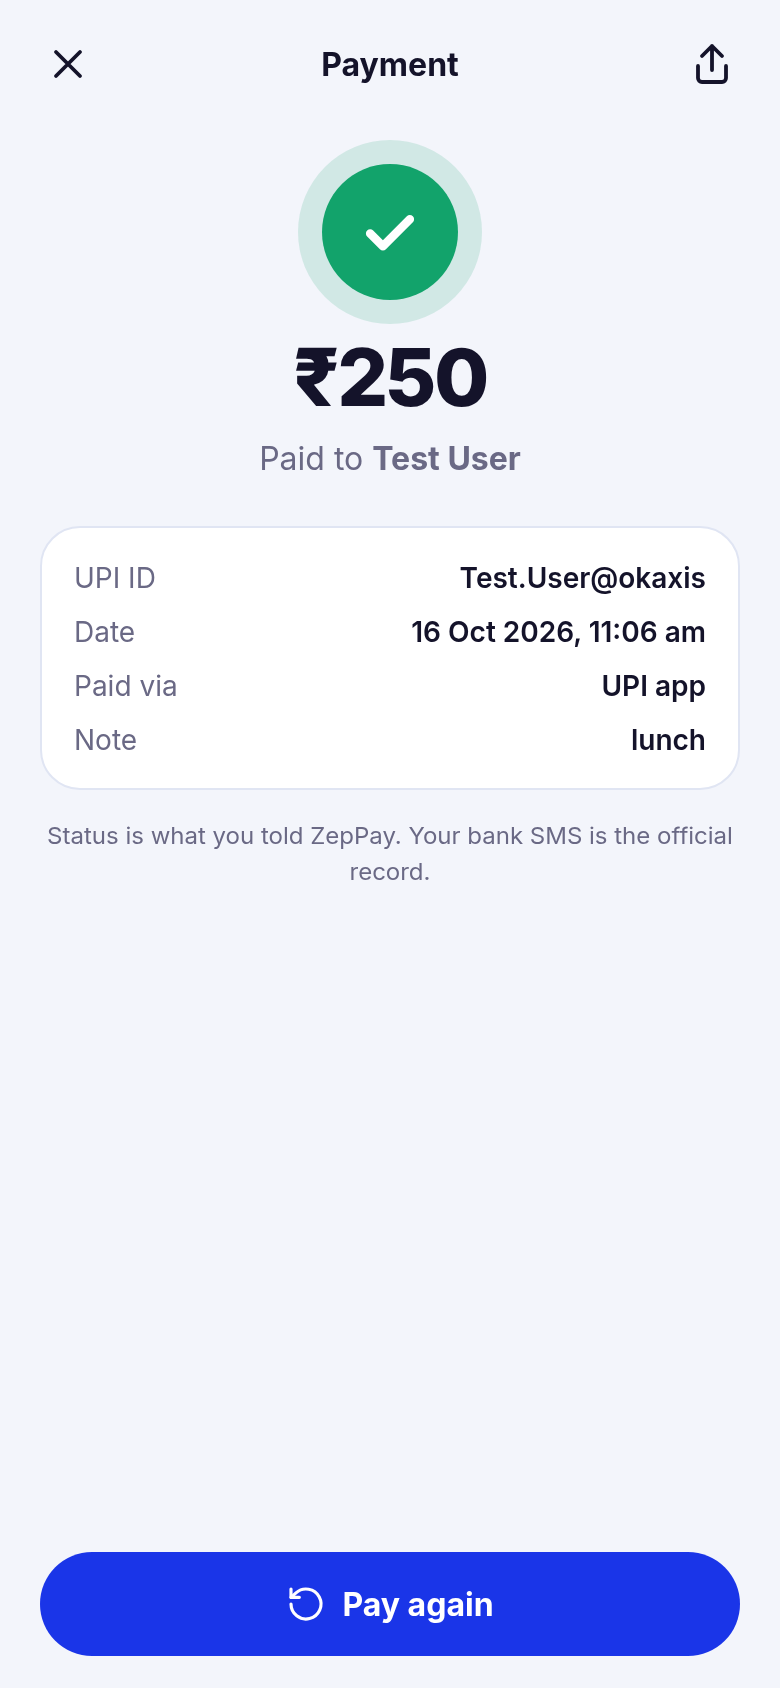
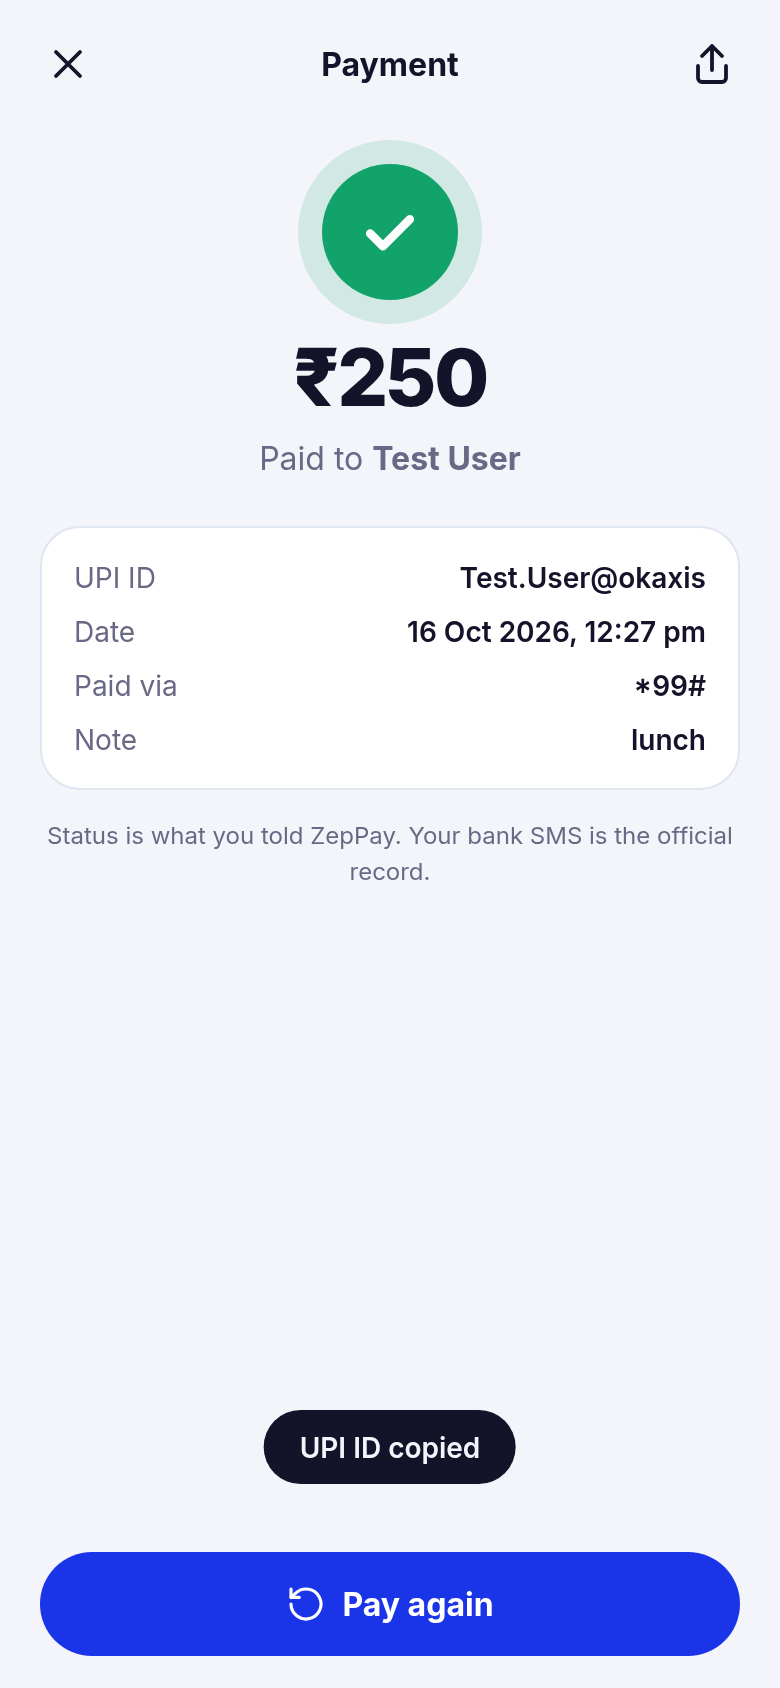
Payments only over *99#: remove UPI app deep-link route

Changed region(s): [[0.3385, 0.8318, 0.6769, 0.8934], [0.5231, 0.3697, 0.8923, 0.4313]]

diff --git a/src/App.jsx b/src/App.jsx
@@ -4,7 +4,7 @@ import * as Ic from './Icons.jsx';
 import logo from './assets/logo.png';
 import { usePersisted } from './store.js';
 import {
-  parseUpi, validateAmount, formatINR, telHref, CARRIERS, carrierSupported, newId, upiLink, initials,
+  parseUpi, validateAmount, formatINR, telHref, CARRIERS, carrierSupported, newId, initials,
   groupByDay, navigate, isValidVpa, isValidMobile, normMobile, USSD_SEND, USSD_MOBILE, USSD_BALANCE, USSD_MENU, MAX_AMOUNT,
 } from './lib.js';
 
@@ -65,7 +65,7 @@ export default function App() {
     return () => removeEventListener('beforeinstallprompt', h);
   }, []);
 
-  // When the user comes back from the dialer / UPI app, ask how it went.
+  // When the user comes back from the dialer, ask how it went.
   useEffect(() => {
     const onVis = () => { if (document.visibilityState === 'visible' && pending) setScreen((s) => (s?.name === 'outcome' ? s : { name: 'outcome', tx: pending })); };
     document.addEventListener('visibilitychange', onVis);
@@ -125,8 +125,8 @@ function Onboarding({ onDone }) {
   const [i, setI] = useState(0);
   const slides = [
     { icon: <Ic.WifiOff width={44} height={44} />, t: 'Pay with no internet', d: 'ZepPay lines up UPI payments over *99#, the service built into your SIM. No Wi-Fi, no mobile data.' },
-    { icon: <Ic.Scan width={44} height={44} />, t: 'Scan, check, pay', d: 'Scan any UPI QR or enter a UPI ID or mobile number. Pay offline through *99#, or open your UPI app when you have data.' },
-    { icon: <Ic.Shield width={44} height={44} />, t: 'Your PIN stays with your bank', d: 'ZepPay never sees or stores your UPI PIN. You enter it in the dialer or your UPI app. History stays on this device.' },
+    { icon: <Ic.Scan width={44} height={44} />, t: 'Scan, check, pay', d: 'Scan any UPI QR or enter a UPI ID or mobile number. ZepPay lines up the payment and your bank completes it over *99#.' },
+    { icon: <Ic.Shield width={44} height={44} />, t: 'Your PIN stays with your bank', d: 'ZepPay never sees or stores your UPI PIN. You enter it in the dialer. History stays on this device.' },
     { icon: <Ic.Wallet width={44} height={44} />, t: 'One-time bank link', d: 'To pay over *99#, your SIM must be linked to your bank once.', steps: true },
   ];
   const s = slides[i], last = i === slides.length - 1;
@@ -175,7 +175,7 @@ function HomeTab({ supported, carrier, history, go, online, installEvt, onInstal
         <span className="netic"><Ic.WifiOff width={22} height={22} /></span>
         <div><b>Works with no data</b><small>Offline payments use *99# on your {CARRIERS.find((c) => c.id === carrier)?.name} SIM. Your bank completes them.</small></div>
       </section>
-      {!supported && <div className="warn" role="alert"><Ic.Info width={20} height={20} /><div><b>Jio doesn't support *99#.</b> You can still pay with your UPI app when you have internet.</div></div>}
+      {!supported && <div className="warn" role="alert"><Ic.Info width={20} height={20} /><div><b>Jio doesn't support *99#.</b> Payments in ZepPay need a *99# supported SIM.</div></div>}
 
       {recents.length > 0 && <>
         <h3 className="sec">Pay again</h3>
@@ -220,7 +220,7 @@ function PayTo({ kind: initial, onClose, onNext }) {
         <input className="field" autoFocus aria-label={kind === 'upi' ? 'UPI ID' : 'Mobile number'} placeholder={kind === 'upi' ? 'name@bank' : '10-digit mobile number'} inputMode={kind === 'upi' ? 'email' : 'numeric'} value={val} onChange={(e) => setVal(e.target.value)} autoCapitalize="off" autoCorrect="off" spellCheck="false" />
         {val && !ok && <p className="err">{kind === 'upi' ? 'Use the format name@bank.' : 'Enter a valid 10-digit Indian mobile number.'}</p>}
         <input className="field" aria-label="Payee name (optional)" placeholder="Name (optional, for your history)" maxLength={40} value={name} onChange={(e) => setName(e.target.value)} />
-        {kind === 'mobile' && <p className="fine left">Mobile payments go through *99# only. The number must be linked to a UPI account. UPI apps need a UPI ID or QR.</p>}
+        {kind === 'mobile' && <p className="fine left">Mobile payments go through *99# only. The number must be linked to a UPI account.</p>}
         <button className="btn primary wide" disabled={!ok} style={{ marginTop: 12 }}>Continue <Ic.Arrow width={20} height={20} /></button>
       </form>
     </div>
@@ -327,44 +327,38 @@ function PayScreen({ payee, supported, onClose, onGo }) {
         <div className="quick">{[100, 500, 1000, 2000].map((v) => <button key={v} onClick={() => setAmount(String(v))}>₹{v.toLocaleString('en-IN')}</button>)}</div>
         {!isMobile && <input className="field" aria-label="Note" placeholder="Add a note (optional)" maxLength={50} value={note} onChange={(e) => setNote(e.target.value)} />}
         <label className="check"><input type="checkbox" checked={confirmed} onChange={(e) => setConfirmed(e.target.checked)} /><span>I've checked this is the right person to pay.</span></label>
-        <p className="fine left">Your bank completes the payment and asks for your UPI PIN. ZepPay never sees it.</p>
+        <p className="fine left">Payments run only over *99#. Your bank asks for your UPI PIN in the dialer. ZepPay never sees it.</p>
       </div>
       <div className="sheet-foot col">
-        {!isMobile && <button className="btn primary wide" disabled={dis} onClick={() => start('app')}>Pay with UPI app {!err && amount ? formatINR(amount) : ''} <Ic.Arrow width={20} height={20} /></button>}
-        <button className={'btn wide ' + (isMobile ? 'primary' : 'ghost')} disabled={dis || !supported} onClick={() => start('ussd')}><Ic.WifiOff width={20} height={20} /> Pay offline with *99#</button>
+        <button className="btn primary wide" disabled={dis || !supported} onClick={() => start('ussd')}><Ic.WifiOff width={20} height={20} /> Pay {!err && amount ? formatINR(amount) : ''} with *99#</button>
         {!supported && <p className="err center">Jio SIMs can't use *99#.</p>}
       </div>
     </div>
   );
 }
 
-/* ---------- Handoff to UPI app / dialer ---------- */
+/* ---------- Handoff to dialer ---------- */
 function Handoff({ tx, route, showToast, onClose, onBack, onLaunch, onPick }) {
-  const isApp = route === 'app';
+  const isApp = false;
   const code = tx.vpa ? USSD_SEND : USSD_MOBILE;
   const target = tx.vpa || tx.mobile;
   const open = async () => {
     onLaunch();
-    if (isApp) { navigate(upiLink({ vpa: tx.vpa, name: tx.name, amount: tx.amount, note: tx.note })); return; }
+    if (isApp) { return; }
     if (await copyText(target)) showToast(tx.vpa ? 'UPI ID copied' : 'Number copied');
     navigate(telHref(code));
   };
   return (
     <div className="sheet session" role="dialog" aria-label="Complete payment">
-      <header className="sheet-top"><button className="icon-btn" onClick={onBack} aria-label="Back"><Ic.Back /></button><b>{isApp ? 'UPI app' : 'Offline *99#'}</b><span style={{ width: 40 }} /></header>
+      <header className="sheet-top"><button className="icon-btn" onClick={onBack} aria-label="Back"><Ic.Back /></button><b>Pay via *99#</b><span style={{ width: 40 }} /></header>
       <div className="sheet-body center">
         <div className="amt-show"><small>to {tx.name || target}</small><div>{formatINR(tx.amount)}</div></div>
         <div className="livebox"><Ic.Phone width={34} height={34} />
-          {isApp ? <>
-            <h2>Finish in your UPI app</h2>
-            <p>Tap below. Your phone lists the UPI apps you have (GPay, PhonePe, Paytm and so on) with the payee and amount filled in. Confirm and enter your PIN there. Needs internet.</p>
-          </> : <>
             <h2>Finish in your dialer</h2>
             <p>ZepPay copies {tx.vpa ? 'the UPI ID' : 'the number'} and opens <code>{code}</code>. In the bank prompts, paste it, enter <b>{formatINR(tx.amount)}</b>, then your UPI PIN. No internet needed.</p>
-          </>}
         </div>
-        <button className="btn primary wide" onClick={open} data-testid="open-handoff"><Ic.Phone width={20} height={20} /> {isApp ? 'Open UPI app' : 'Open dialer'}</button>
-        {!isApp && <button className="btn ghost wide" onClick={async () => showToast((await copyText(target)) ? 'Copied' : 'Copy not available')}><Ic.Copy width={20} height={20} /> Copy {target}</button>}
+        <button className="btn primary wide" onClick={open} data-testid="open-handoff"><Ic.Phone width={20} height={20} /> Open dialer</button>
+        {<button className="btn ghost wide" onClick={async () => showToast((await copyText(target)) ? 'Copied' : 'Copy not available')}><Ic.Copy width={20} height={20} /> Copy {target}</button>}
         <p className="fine">When you come back, ZepPay asks if it worked so your history is accurate. Your bank sends the real confirmation.</p>
       </div>
       <div className="sheet-foot col"><button className="btn ghost wide" data-testid="mark-success" onClick={() => onPick('success')}>It worked</button>
@@ -379,7 +373,7 @@ function Outcome({ tx, onPick, onLater }) {
       <header className="sheet-top"><span style={{ width: 40 }} /><b>Did it go through?</b><button className="icon-btn" onClick={onLater} aria-label="Later"><Ic.Close /></button></header>
       <div className="sheet-body center">
         <div className="amt-show"><small>{formatINR(tx.amount)} to</small><div style={{ fontSize: 26 }}>{tx.name || tx.vpa || tx.mobile}</div></div>
-        <p className="fine">ZepPay can't read your bank's reply. Check your bank SMS or UPI app, then tell us so your history is right.</p>
+        <p className="fine">ZepPay can't read your bank's reply. Check your bank SMS, then tell us so your history is right.</p>
       </div>
       <div className="sheet-foot col">
         <button className="btn primary wide" onClick={() => onPick('success')}>Yes, payment went through</button>
@@ -422,7 +416,7 @@ function Receipt({ tx, onClose, onAgain }) {
           <div className="bal-big">{formatINR(tx.amount)}</div><p>{ok ? 'Paid to' : tx.status === 'failed' ? 'Failed to pay' : 'Not confirmed, to'} <b>{tx.name || tx.vpa || tx.mobile}</b></p></div>
         <dl className="kv">
           <dt>{tx.vpa ? 'UPI ID' : 'Mobile'}</dt><dd>{tx.vpa || tx.mobile}</dd><dt>Date</dt><dd>{when}</dd>
-          <dt>Paid via</dt><dd>{tx.route === 'app' ? 'UPI app' : 'Offline *99#'}</dd>
+          <dt>Paid via</dt><dd>*99#</dd>
           {tx.note && <><dt>Note</dt><dd>{tx.note}</dd></>}
         </dl>
         <p className="fine">Status is what you told ZepPay. Your bank SMS is the official record.</p>
@@ -444,7 +438,7 @@ function HistoryTab({ history, go }) {
             <ul className="list">{g.items.map((t) => (
               <li key={t.id}><button onClick={() => go({ name: 'receipt', tx: t })} className="tx">
                 <Avatar name={label(t)} />
-                <span className="tx-m"><b>{t.name || label(t).split('@')[0]}</b><small>{new Date(t.at).toLocaleTimeString('en-IN', { hour: 'numeric', minute: '2-digit' })} · {t.route === 'app' ? 'UPI app' : '*99#'}</small></span>
+                <span className="tx-m"><b>{t.name || label(t).split('@')[0]}</b><small>{new Date(t.at).toLocaleTimeString('en-IN', { hour: 'numeric', minute: '2-digit' })} · *99#</small></span>
                 <span className={'tx-a ' + t.status}>{formatINR(t.amount)}<small>{statusText(t.status)}</small></span>
               </button></li>))}</ul></section>))}
     </main>
@@ -465,11 +459,11 @@ function BankGuide({ onClose }) {
   );
 }
 const FAQ = [
-  ['Does ZepPay move money itself?', 'No. ZepPay lines up the payment. Your bank completes it, either through *99# on your SIM or in your UPI app. ZepPay never sees your UPI PIN.'],
-  ['Which SIMs work?', 'Airtel, Vi and BSNL support *99#. Jio does not. With a Jio SIM, use "Pay with UPI app" when you have internet.'],
-  ['What are the limits?', '*99# allows ₹1 to ₹5,000 per payment, and a daily cap set by your bank. UPI apps have their own limits.'],
-  ['Why does it ask if my payment worked?', 'A web app cannot read the bank reply from the dialer or UPI app. You tell ZepPay, and it saves that to your history on this device.'],
-  ['Can I pay a mobile number?', 'Yes, over *99# only (it uses the "send to mobile number" option). The number must have a UPI account.'],
+  ['Does ZepPay move money itself?', 'No. ZepPay lines up the payment. Your bank completes it, through *99# on your SIM. ZepPay never sees your UPI PIN.'],
+  ['Which SIMs work?', 'Airtel, Vi and BSNL support *99#. Jio does not, so ZepPay cannot pay on a Jio SIM.'],
+  ['What are the limits?', '*99# allows ₹1 to ₹5,000 per payment, and a daily cap set by your bank. '],
+  ['Why does it ask if my payment worked?', 'A web app cannot read the bank reply from the dialer. You tell ZepPay, and it saves that to your history on this device.'],
+  ['Can I pay a mobile number?', 'Yes, it uses the *99# "send to mobile number" option. The number must have a UPI account.'],
   ['Does it work without internet?', 'Yes. After the first load the app opens offline. Offline payments run through your SIM and need voice signal, not data.'],
   ['Where is my data?', 'Only on this device. No accounts, no analytics, no servers. Clearing site data erases your history.'],
 ];
@@ -482,7 +476,7 @@ function HelpTab({ go }) {
       <ol className="steps">
         <li><span><b>Link your bank once.</b> Dial <code>{USSD_MENU}</code> and follow the prompts.</span></li>
         <li><span><b>Scan a UPI QR</b> or enter a UPI ID or mobile number.</span></li>
-        <li><span><b>Check the payee and amount.</b> Pick offline <code>*99#</code> or your UPI app.</span></li>
+        <li><span><b>Check the payee and amount.</b> ZepPay opens <code>*99#</code> in your dialer.</span></li>
         <li><span><b>Enter your UPI PIN</b> in the bank prompt. Come back and confirm.</span></li>
       </ol>
       <button className="rowbtn guide" onClick={() => go({ name: 'bankguide' })}><Ic.Shield width={20} height={20} /> Bank-link walkthrough</button>

diff --git a/README.md b/README.md
@@ -1,6 +1,6 @@
 # ZepPay web app
 
-Offline UPI payments over `*99#`, as an installable web app (PWA). It lines up the payment and hands it to your bank: either the `*99#` service on your SIM (no internet) or your UPI app (GPay, PhonePe, Paytm and so on). The payment itself is always completed by your bank.
+Offline UPI payments over `*99#`, as an installable web app (PWA). It lines up the payment and hands it to your bank: the `*99#` service on your SIM (no internet needed). The payment itself is always completed by your bank.
 
 Live: https://mananbharti.github.io/zeppay-pwa/
 
@@ -23,15 +23,15 @@ Live: https://mananbharti.github.io/zeppay-pwa/
 - **Scan QR to pay**: live camera scan, upload a QR image, or paste a UPI ID or `upi://` link
 - **Pay to a UPI ID or a mobile number**
 - **Pay with your UPI app**: opens a real `upi://pay` link with payee, name, amount and note filled in. You confirm and enter your PIN in the UPI app
-- **Pay offline with `*99#`**: copies the UPI ID or number, then opens your dialer with `*99*1*3#` (UPI ID) or `*99*1*1#` (mobile number). No data needed
+- **Pay over `*99#`** (the only payment route): copies the UPI ID or number, then opens your dialer with `*99*1*3#` (UPI ID) or `*99*1*1#` (mobile number). No data needed
 - **Check balance**: opens `*99*3#`
-- **History**: every payment you start, saved on the device. When you return from the dialer or UPI app, ZepPay asks if it went through
+- **History**: every payment you start, saved on the device. When you return from the dialer, ZepPay asks if it went through
 - **Help and FAQ**, install to home screen, Auto / Light / Dark theme, carrier picker (Jio doesn't support `*99#`, so offline payments are switched off for it)
 - Works offline once loaded
 
 ## What ZepPay can and can't do
 
-A web page can't move money or read your bank's reply. So ZepPay never claims a payment succeeded: the status in History is what you confirm. Your UPI PIN is entered in the dialer or UPI app only. ZepPay never sees or stores it. Everything is kept in `localStorage` on your device. No analytics, no accounts, no servers.
+A web page can't move money or read your bank's reply. So ZepPay never claims a payment succeeded: the status in History is what you confirm. Your UPI PIN is entered in the dialer only. ZepPay never sees or stores it. Everything is kept in `localStorage` on your device. No analytics, no accounts, no servers.
 
 ## Run it
 
